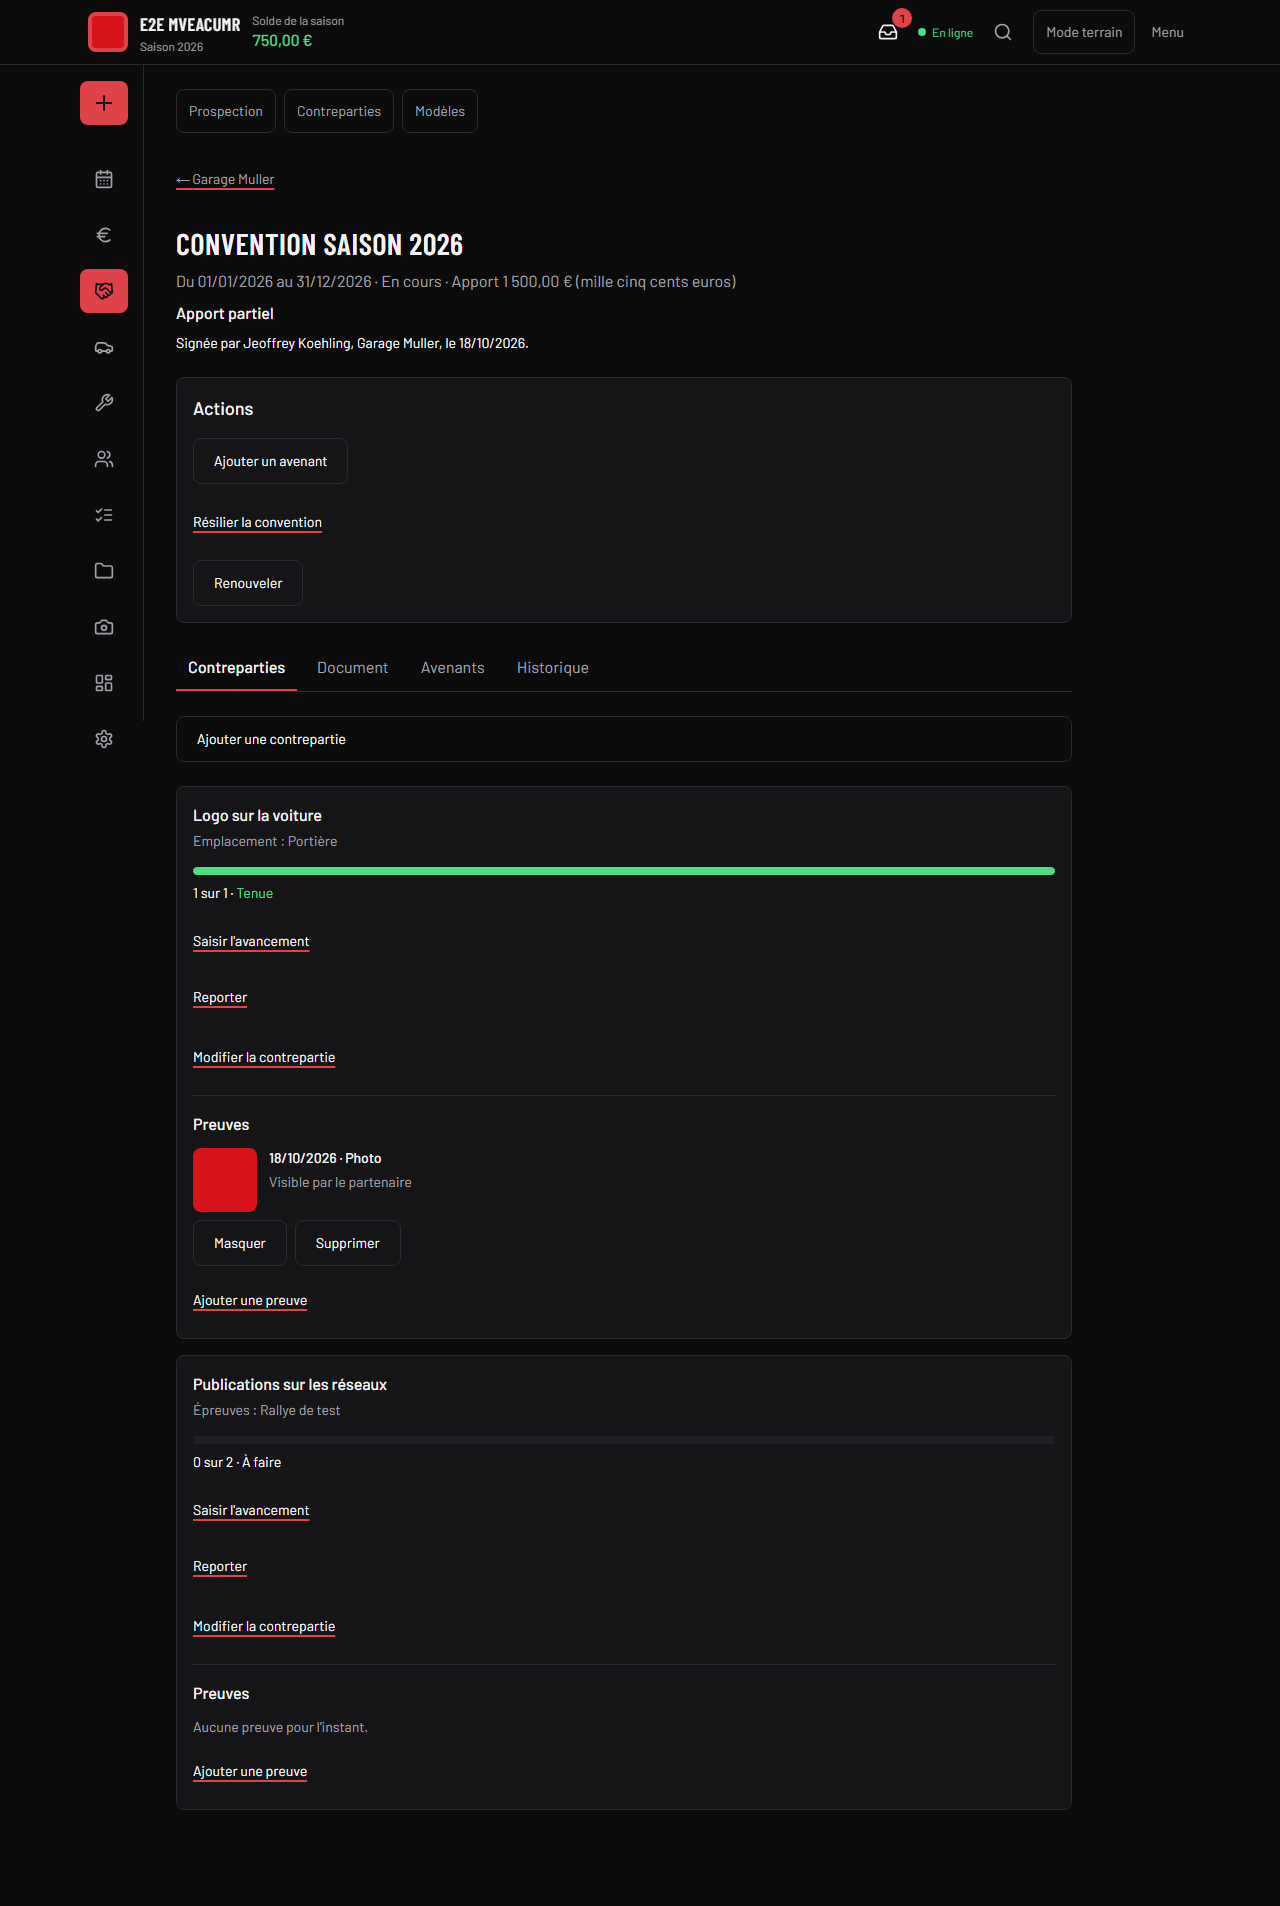
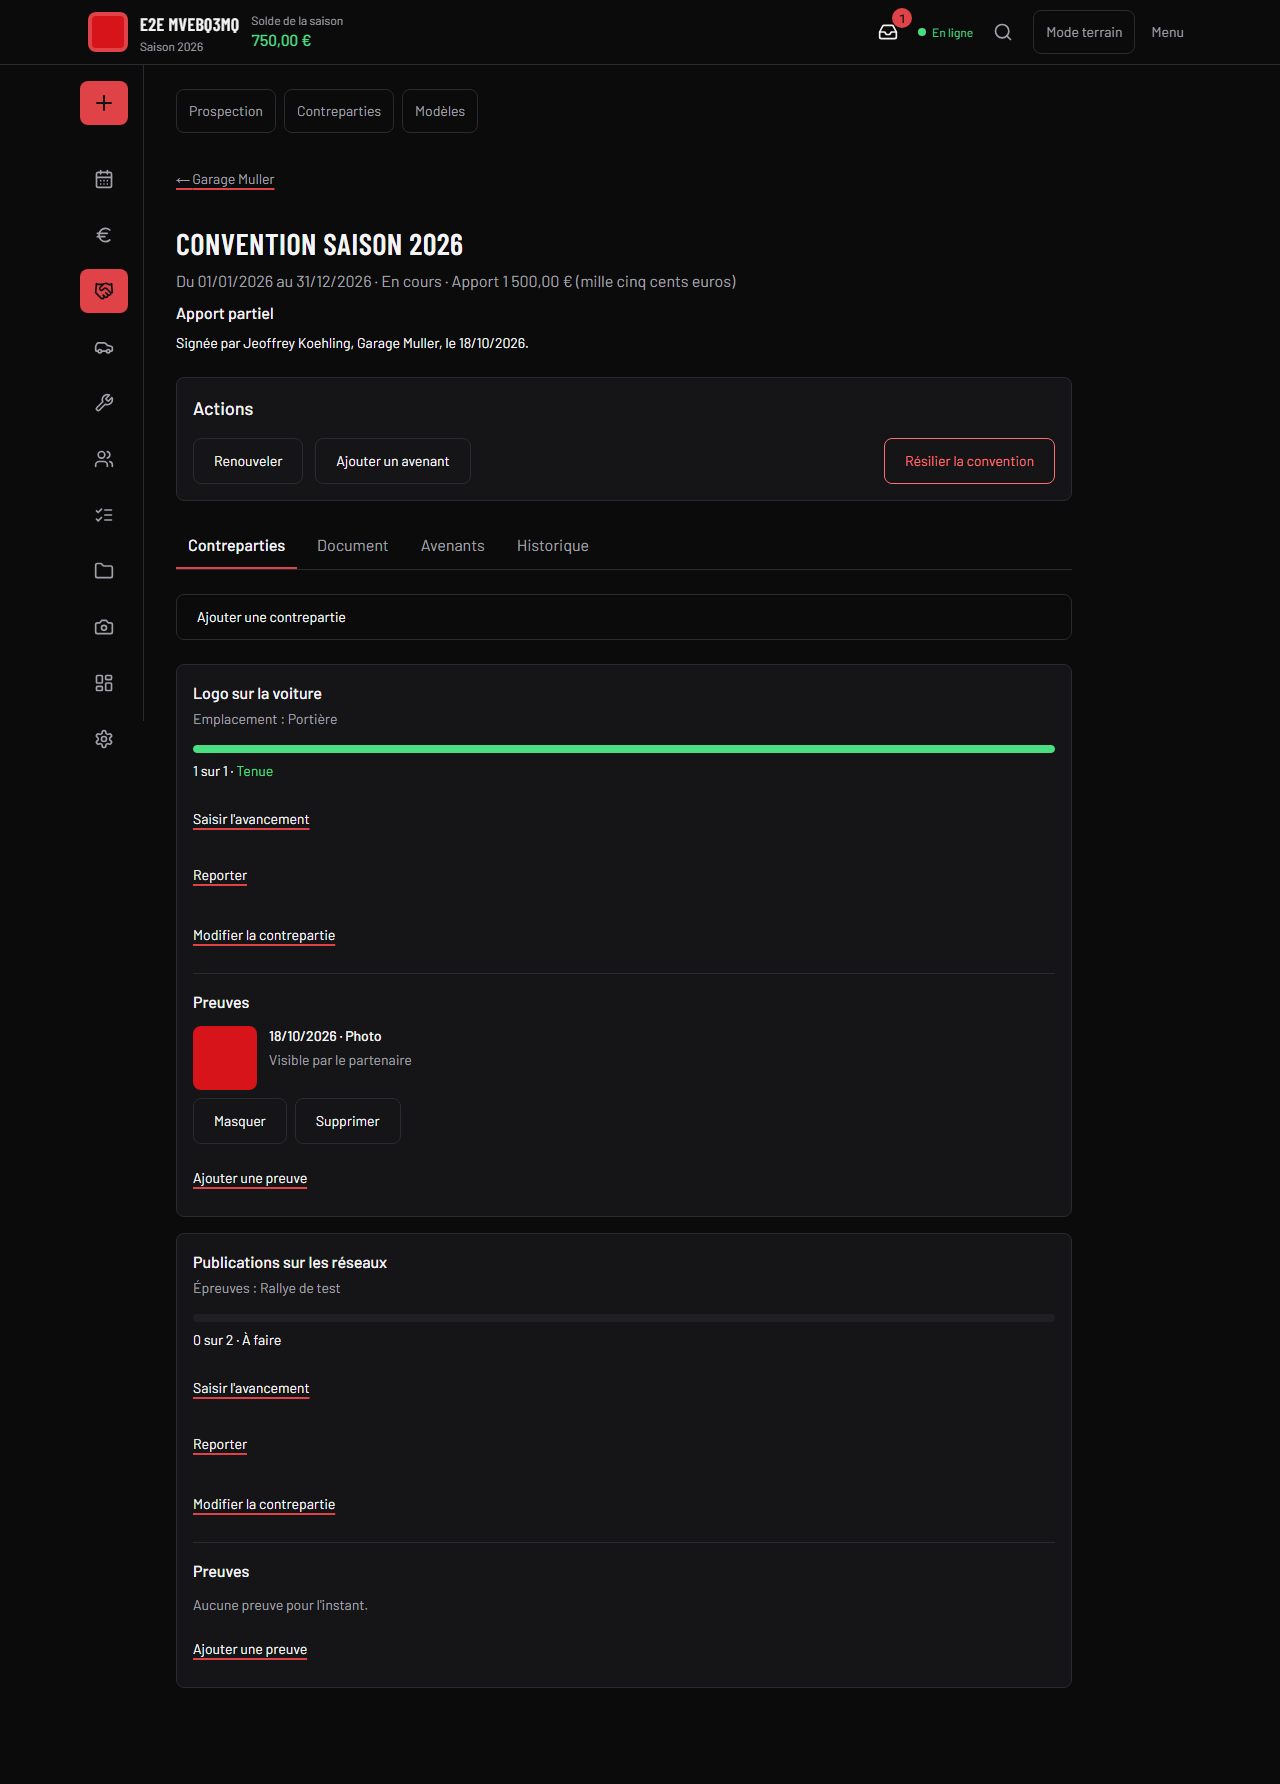
Convention : actions sur une seule ligne, résiliation en danger
Brief 3.9, §6. Renouveler et Ajouter un avenant forment une ligne
d'actions avec Résilier la convention à droite, en contour rouge. Sur
téléphone, la ligne passe à la ligne sans déborder ; les formulaires
s'ouvrent en pleine largeur, sous la ligne. Les summary sont gardés
(les e2e s'y appuient).

Le parcours lot 3 couvre les deux captures : la convention à 1440 px
(apport partiel) et les actions à 360 px.

diff --git a/src/app/(app)/apps/partenaires/conventions/[id]/page.tsx b/src/app/(app)/apps/partenaires/conventions/[id]/page.tsx
@@ -69,6 +69,9 @@ function destinationChamp(cle: string, partnerId: string): { href: string; texte
 
 const CLASSE_BLOC = "flex flex-col gap-4 rounded-md border border-bordure bg-surface p-4"
 
+// Bouton de danger, en contour : la résiliation n'est pas une action comme les autres (brief 3.9, §6).
+const BOUTON_DANGER = "cible-tactile rounded-md border border-etat-rouge px-5 py-3 text-sm text-etat-rouge hover:bg-surface-2 disabled:opacity-50"
+
 export default async function PageConvention({
   params,
   searchParams,
@@ -191,36 +194,40 @@ export default async function PageConvention({
           </details>
         )}
         {estEnvoyee && !gestion && <p className="text-sm text-texte-discret">Seule la gestion peut marquer la convention signée.</p>}
-        {estActive && gestion && (
-          <div className="flex flex-col gap-4">
-            <details>
-              <summary className={`${BOUTON_SECONDAIRE} inline-flex cursor-pointer list-none`}>Ajouter un avenant</summary>
-              <div className="mt-4">
-                <FormulaireAvenant agreementId={convention.id} aujourdhui={aujourdhui} />
-              </div>
-            </details>
-            <details>
-              <summary className={`${LIEN} cursor-pointer list-none text-sm`}>Résilier la convention</summary>
-              <div className="mt-3">
-                <FormulaireAction action={resilierAction} nom="Résilier" className="flex flex-col gap-3">
-                  <input type="hidden" name="agreementId" value={convention.id} />
-                  <label htmlFor="motif-resiliation" className="font-medium">
-                    Motif (obligatoire)
-                  </label>
-                  <textarea id="motif-resiliation" name="motif" required rows={2} maxLength={1000} className={CHAMP} />
-                  <div>
-                    <BoutonEnvoi libelle="Résilier la convention" secondaire />
-                  </div>
-                </FormulaireAction>
-              </div>
-            </details>
-          </div>
-        )}
+        {/* Une seule ligne d'actions, qui passe à la ligne sur téléphone (brief 3.9, §6). Les formulaires s'ouvrent
+            en pleine largeur, sous la ligne. « Résilier » est à droite, en couleur de danger. */}
         {estSignee && (
-          <FormulaireAction action={renouvelerAction} nom="Renouveler" ok="Convention renouvelée. Elle apparaît dans l'historique." className="flex">
-            <input type="hidden" name="agreementId" value={convention.id} />
-            <BoutonEnvoi libelle="Renouveler" secondaire />
-          </FormulaireAction>
+          <div className="flex flex-wrap items-center gap-3">
+            <FormulaireAction action={renouvelerAction} nom="Renouveler" ok="Convention renouvelée. Elle apparaît dans l'historique." className="flex">
+              <input type="hidden" name="agreementId" value={convention.id} />
+              <BoutonEnvoi libelle="Renouveler" secondaire />
+            </FormulaireAction>
+            {estActive && gestion && (
+              <details className="[&[open]]:basis-full">
+                <summary className={`${BOUTON_SECONDAIRE} inline-flex cursor-pointer list-none`}>Ajouter un avenant</summary>
+                <div className="mt-4">
+                  <FormulaireAvenant agreementId={convention.id} aujourdhui={aujourdhui} />
+                </div>
+              </details>
+            )}
+            {estActive && gestion && (
+              <details className="ml-auto [&[open]]:basis-full">
+                <summary className={`${BOUTON_DANGER} inline-flex cursor-pointer list-none`}>Résilier la convention</summary>
+                <div className="mt-4">
+                  <FormulaireAction action={resilierAction} nom="Résilier" className="flex flex-col gap-3">
+                    <input type="hidden" name="agreementId" value={convention.id} />
+                    <label htmlFor="motif-resiliation" className="font-medium">
+                      Motif (obligatoire)
+                    </label>
+                    <textarea id="motif-resiliation" name="motif" required rows={2} maxLength={1000} className={CHAMP} />
+                    <div>
+                      <BoutonEnvoi libelle="Résilier la convention" secondaire />
+                    </div>
+                  </FormulaireAction>
+                </div>
+              </details>
+            )}
+          </div>
         )}
         {statut === "resiliee" && <p className="text-sm text-texte-discret">Convention résiliée{convention.motifResiliation ? ` : ${convention.motifResiliation}` : "."}</p>}
       </section>

diff --git a/e2e/lot3-parcours.spec.ts b/e2e/lot3-parcours.spec.ts
@@ -308,6 +308,13 @@ test("lot 3 : prospect, convention, liaisons vers Voiture, Budget et Saison, app
   await page.goto(`/apps/partenaires/conventions/${conventionId}`)
   await expect(page.getByTestId("apport-recu")).toHaveText("Apport reçu", { timeout: 30_000 })
 
+  // Téléphone : la ligne d'actions de la convention (avenant, résiliation) passe à la ligne sans déborder (brief 3.9, §6).
+  await page.setViewportSize(TELEPHONE)
+  await page.goto(`/apps/partenaires/conventions/${conventionId}`)
+  await sansDefilementHorizontal(page)
+  await capturer(page, "lot3-convention-actions-360x740.png")
+  await page.setViewportSize(bureau)
+
   // 9. Bilan : le PDF se génère et se télécharge.
   await page.goto(`/apps/partenaires/${partenaireId}?onglet=bilans`)
   await page.getByRole("button", { name: "Générer le bilan", exact: true }).click()
